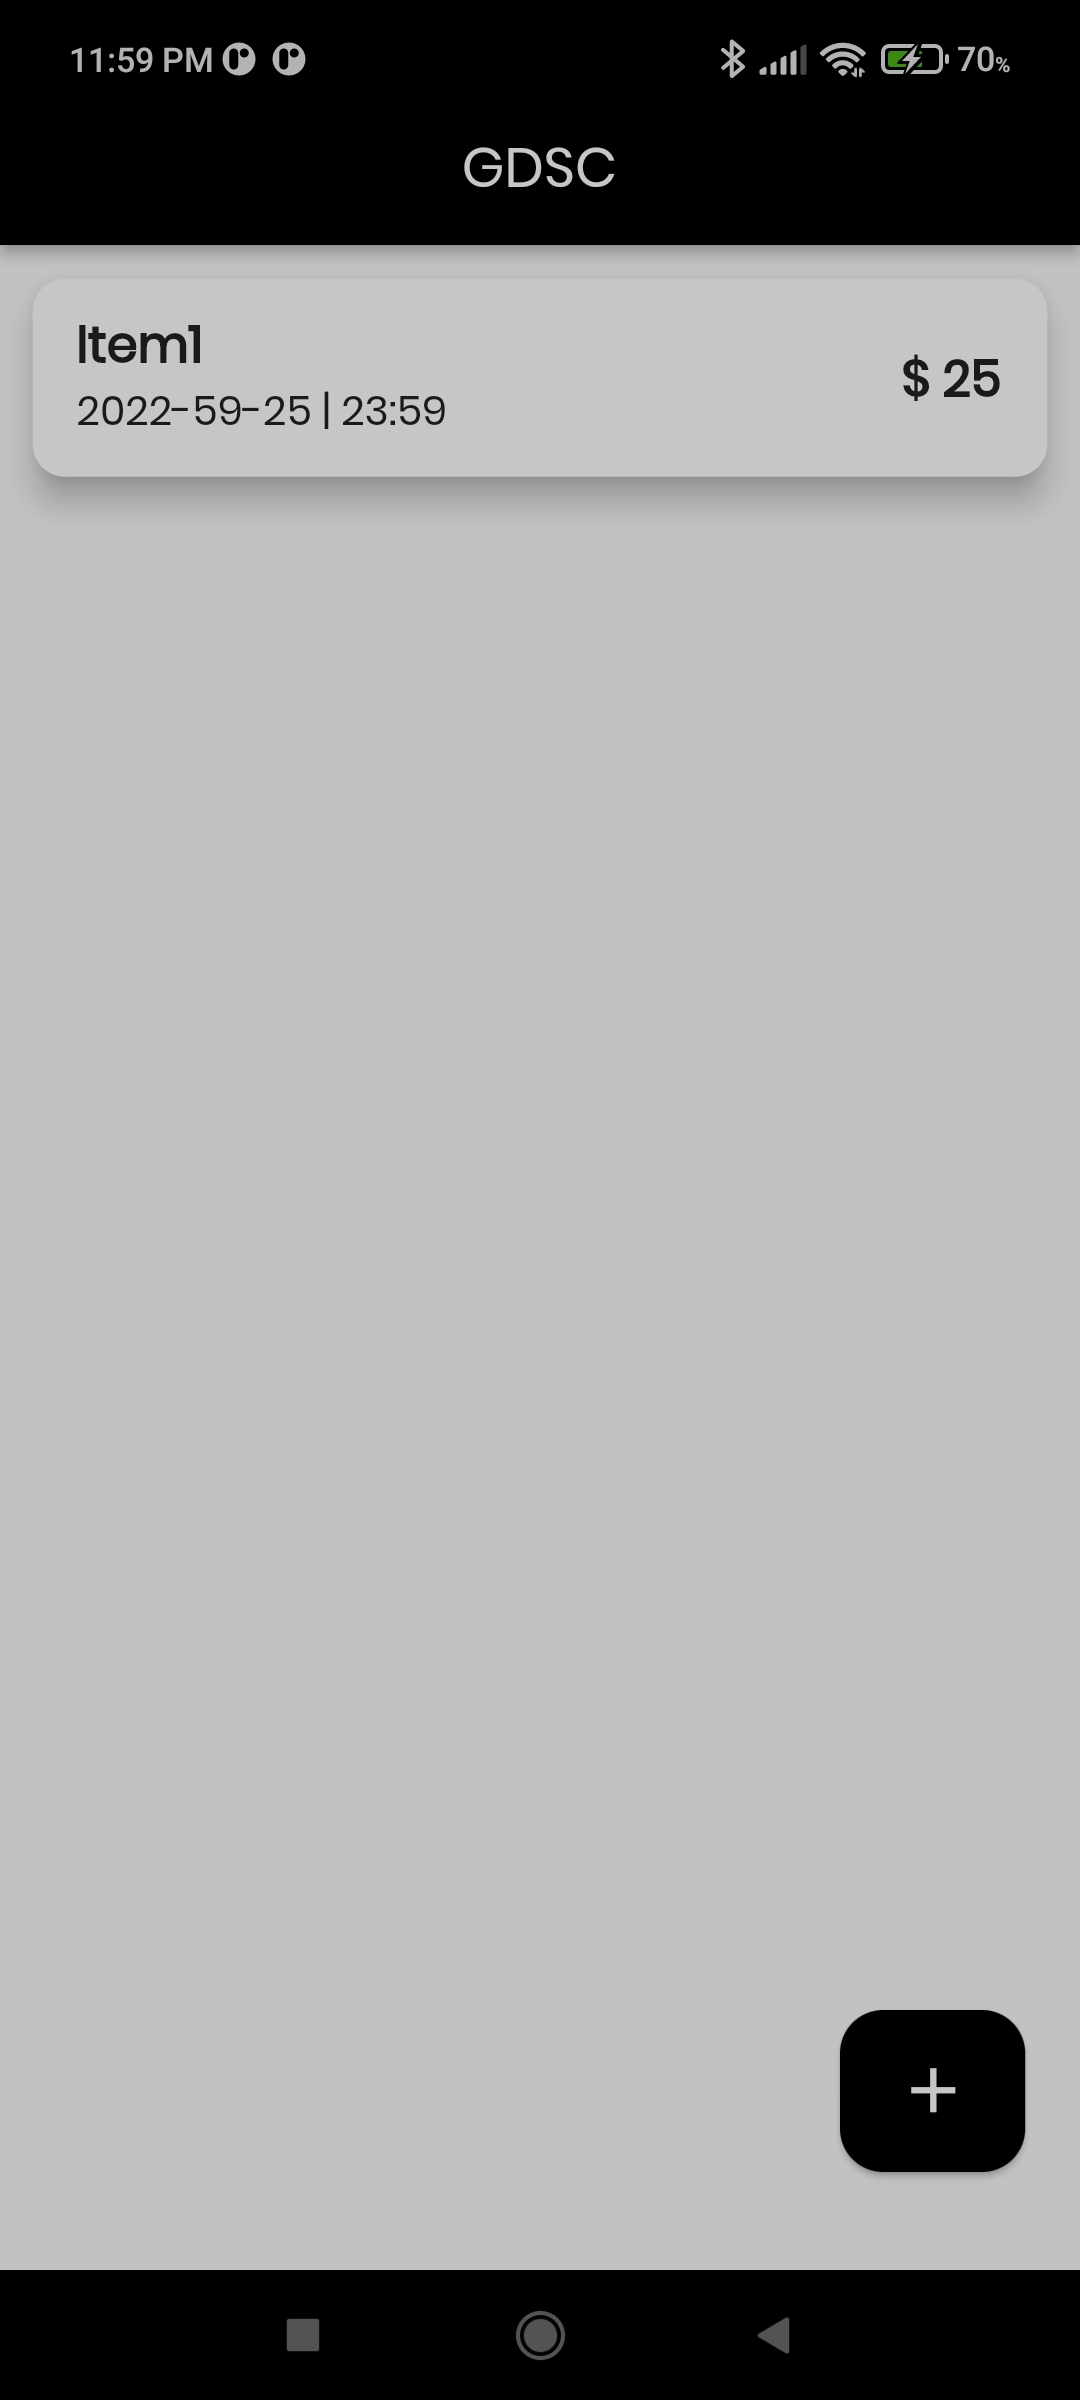
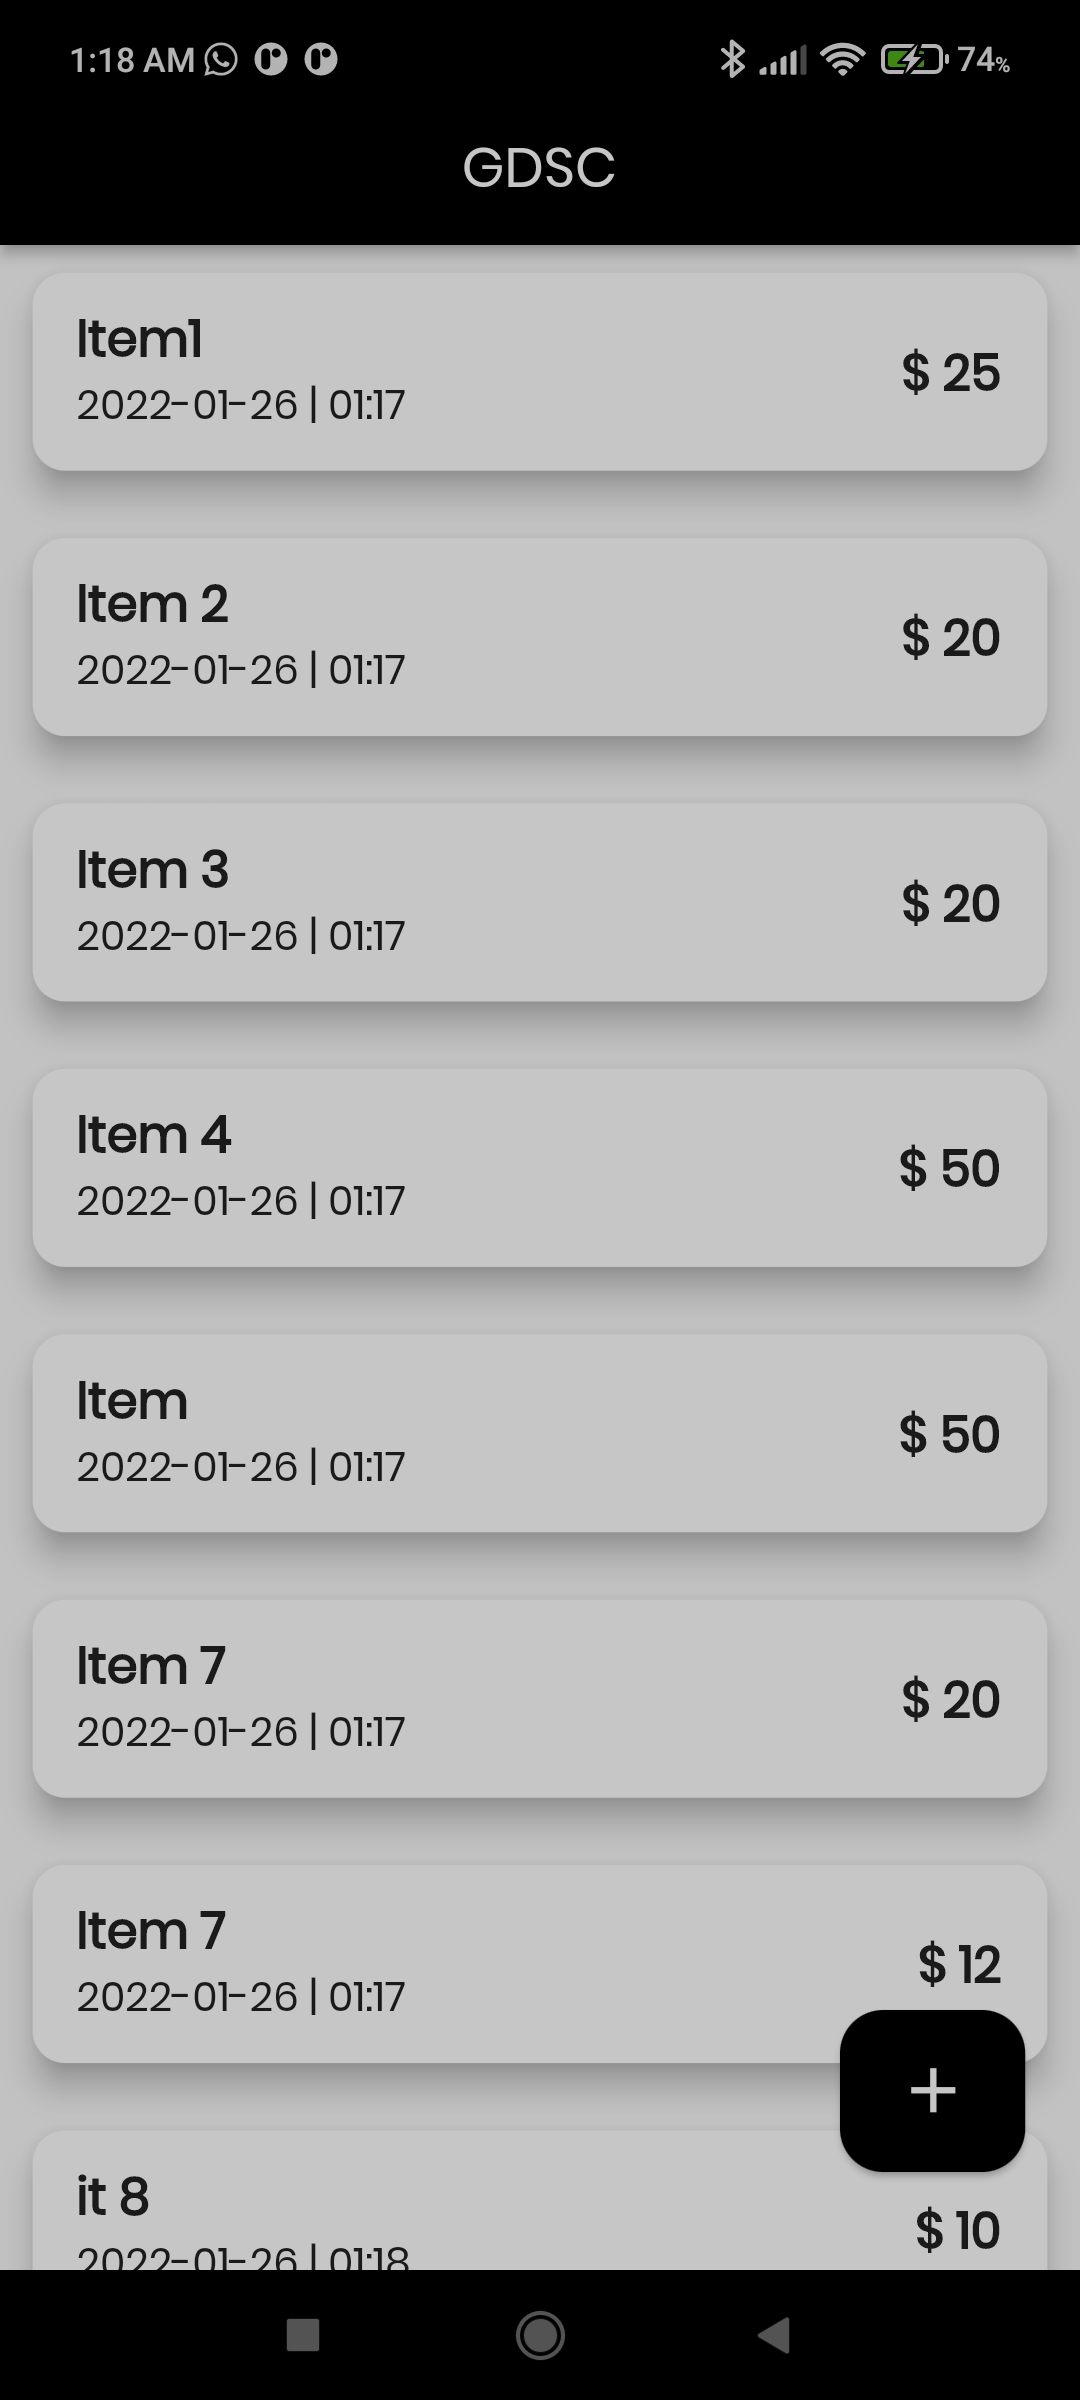
ss updated

diff --git a/lib/MainScreens/item_add_scr.dart b/lib/MainScreens/item_add_scr.dart
@@ -19,7 +19,7 @@ class _AddItemScrState extends State<AddItemScr> {
   @override
   Widget build(BuildContext context) {
     var now = DateTime.now();
-    var formatter = DateFormat("yyyy-mm-dd");
+    var formatter = DateFormat("yyyy-MM-dd");
     String formattedDate = formatter.format(now);
     String time = DateFormat.Hm().format(now);
     var mq = MediaQuery.of(context).size;
